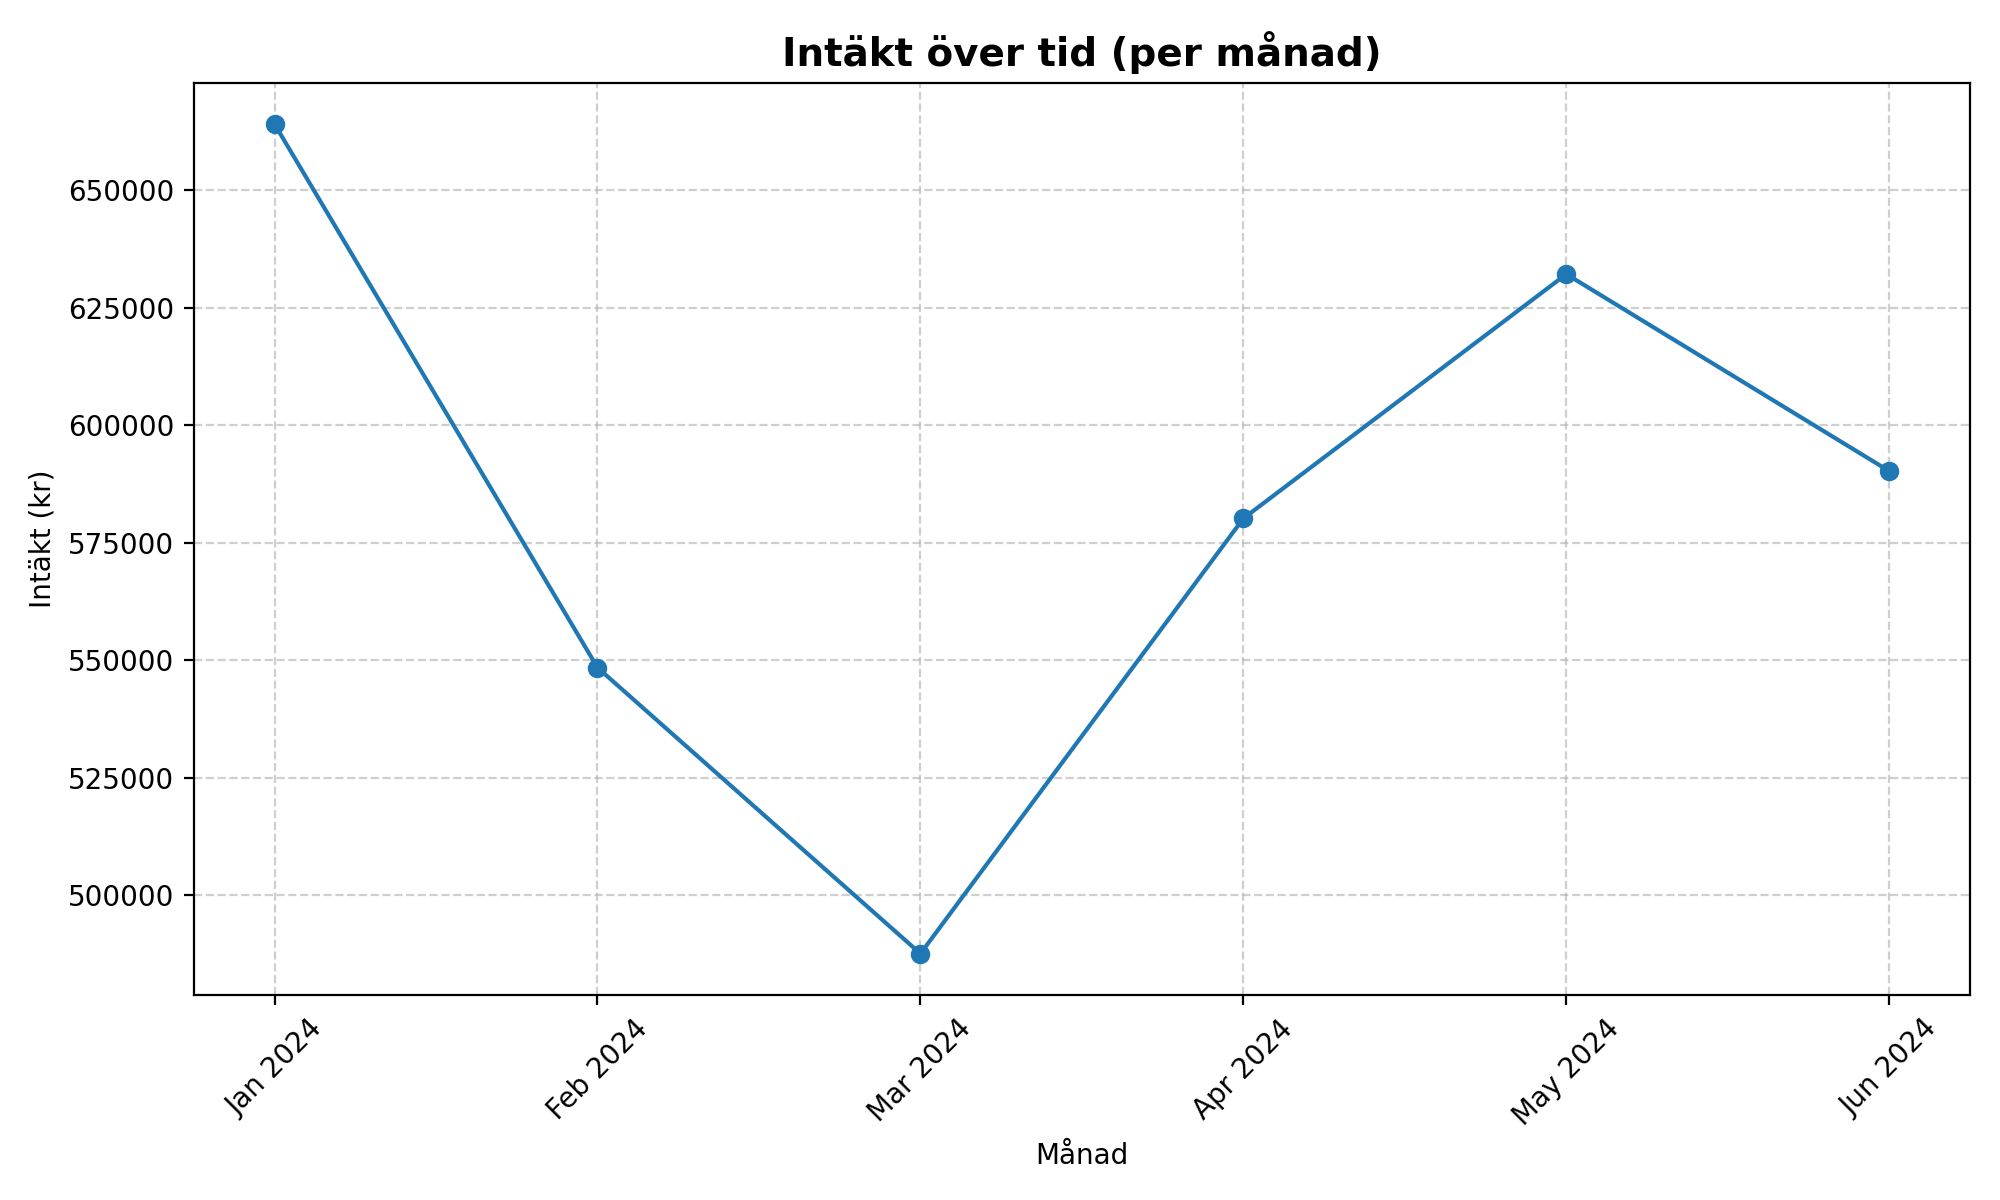
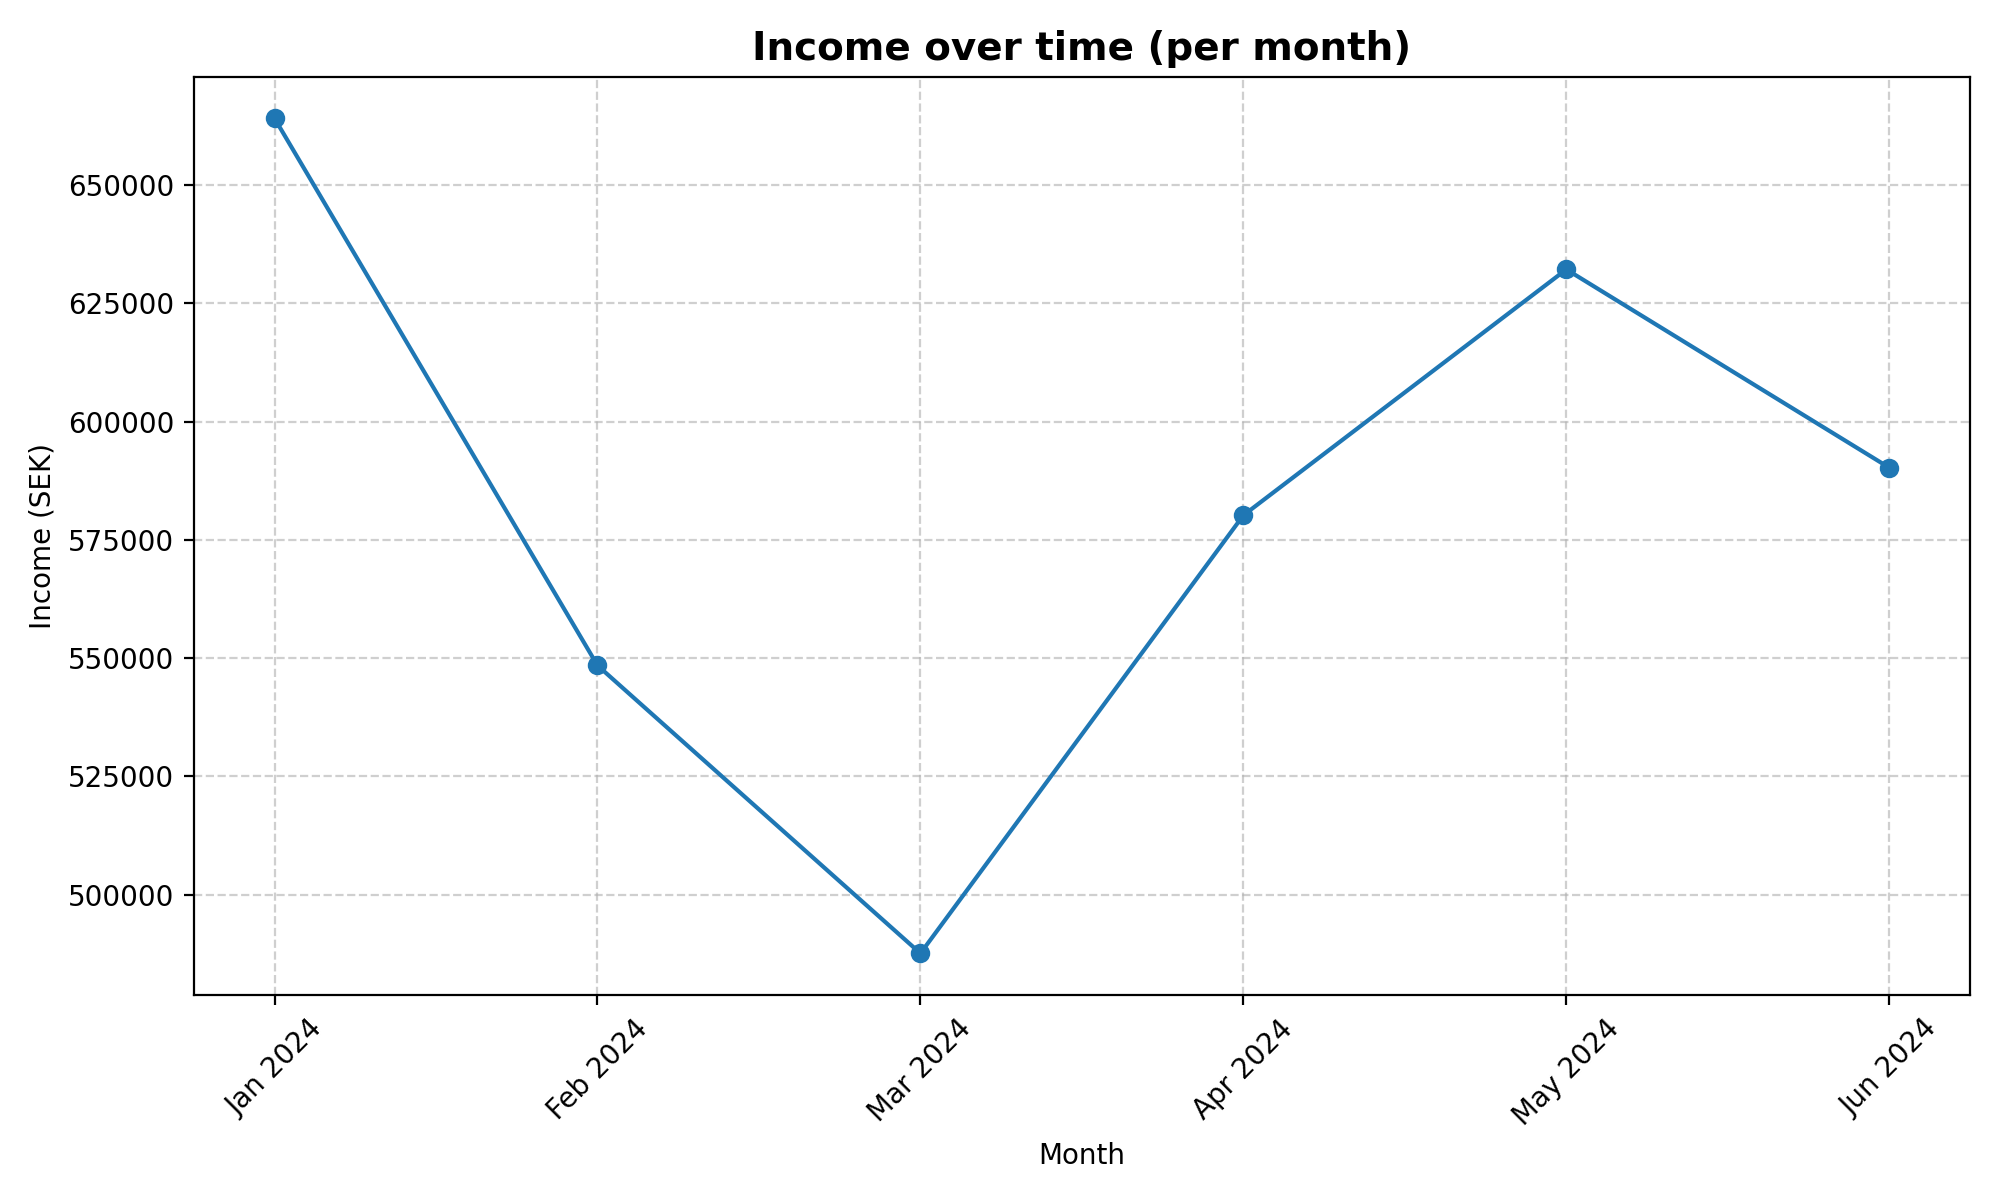
fixed metrics back to original

diff --git a/src/metrics.py b/src/metrics.py
@@ -15,7 +15,7 @@ def total_units(df: pd.DataFrame) -> int:
     # Returns total number of units sold
     return np.sum(df["units"].to_numpy())
 
-def revenue_by_category(df: pd.DataFrame) -> pd.DataFrame:
+def revenue_by_category(df: pd.DataFrame) -> pd.Series:
     # Returns revenue by category
     return df.groupby("category", observed=True)["revenue"].sum().sort_values(ascending=False)
 
@@ -23,7 +23,9 @@ def revenue_by_city(df):
     # Returns revenue by city
     return df.groupby("city", observed=True)["revenue"].sum().sort_values(ascending=False)
 
-def revenue_over_time(df: pd.DataFrame, freq: str = "M") -> pd.DataFrame:
+def revenue_over_time(df: pd.DataFrame, freq: str = "M") -> pd.Series:
+    if freq == "M":
+        freq = "ME"
     # Returns revenue over time per month
     return df.set_index("date").resample(freq)["revenue"].sum()
 
